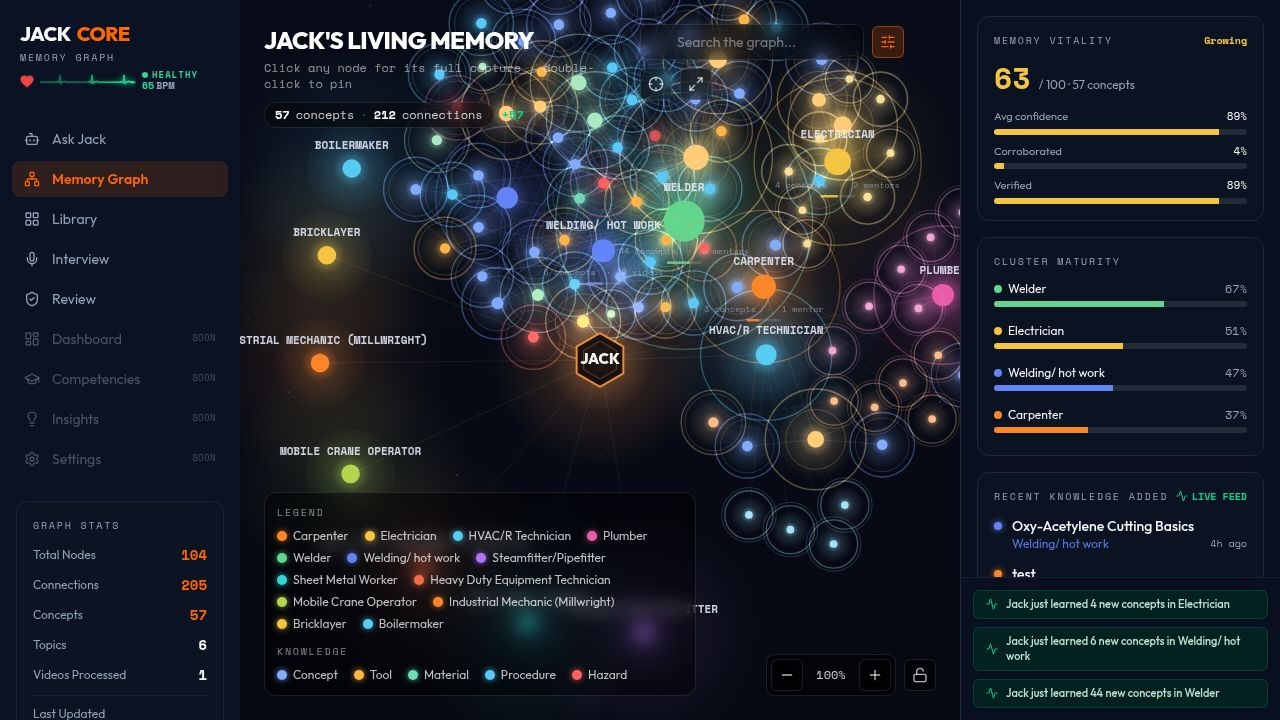
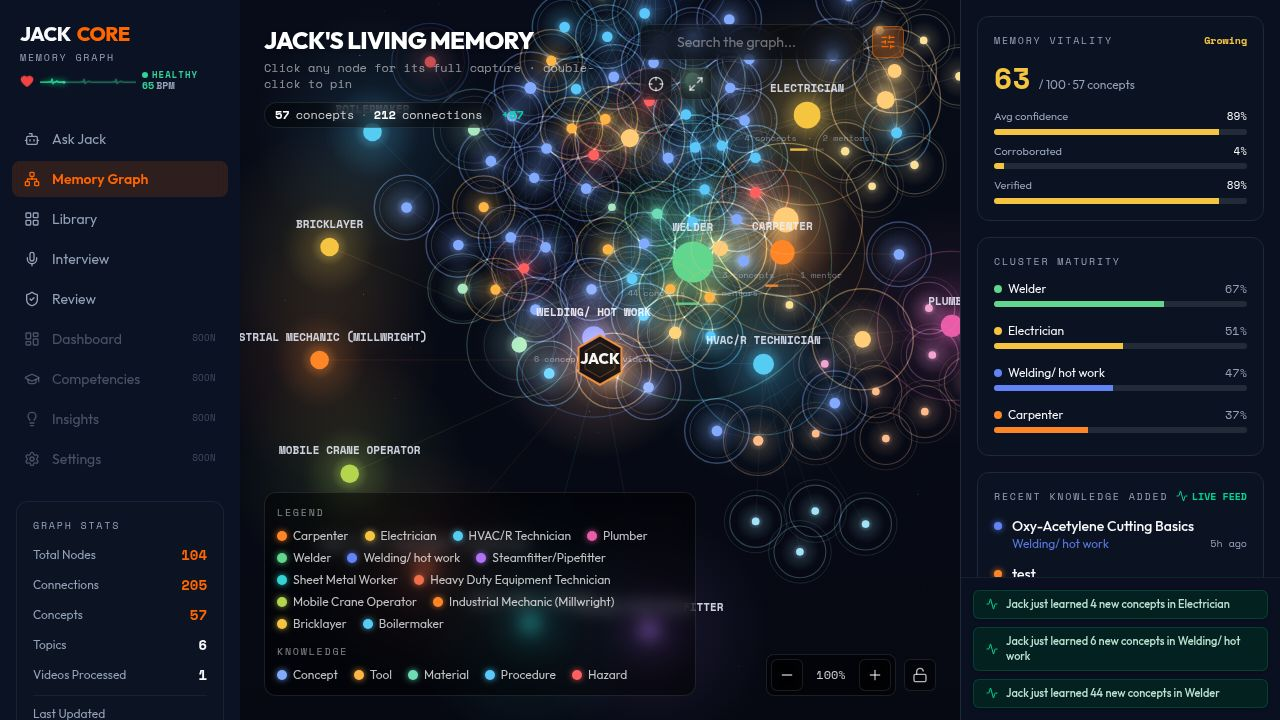
Enhance website metadata for improved brand visibility and AI search awareness
Add a Vite plugin to inject absolute URLs into the HTML, generate robots.txt and sitemap.xml with AI crawler directives and absolute URLs, and update meta tags in index.html.

Replit-Commit-Author: Agent
Replit-Commit-Session-Id: f1f48d39-a181-4eeb-be4a-a35c18715ed0
Replit-Commit-Checkpoint-Type: full_checkpoint
Replit-Commit-Event-Id: b620baa8-7da3-4187-8dac-c9a035a09ef6
Replit-Commit-Screenshot-Url: https://storage.googleapis.com/screenshot-production-us-central1/3f16e536-04be-4ff9-8e1e-0580cd61ab6c/f1f48d39-a181-4eeb-be4a-a35c18715ed0/jTsHMoY
Replit-Helium-Checkpoint-Created: true

diff --git a/artifacts/jack-core/vite.config.ts b/artifacts/jack-core/vite.config.ts
@@ -1,8 +1,108 @@
-import { defineConfig } from "vite";
+import { defineConfig, type Plugin } from "vite";
 import react from "@vitejs/plugin-react";
 import tailwindcss from "@tailwindcss/vite";
 import path from "path";
 import runtimeErrorOverlay from "@replit/vite-plugin-runtime-error-modal";
+
+// Absolute origin of the deployed site, used to make canonical/OG/structured-data
+// URLs and the sitemap/robots entries absolute. Derived from the actual serving
+// domain per environment so it stays correct in dev and after publishing.
+function resolveSiteUrl(): string {
+  const host =
+    process.env.REPLIT_DOMAINS?.split(",")[0]?.trim() ||
+    process.env.REPLIT_DEV_DOMAIN?.trim() ||
+    "";
+  return host
+    ? `https://${host.replace(/^https?:\/\//, "").replace(/\/+$/, "")}`
+    : "";
+}
+
+// Injects the absolute site URL into index.html (via the `__SITE_URL__` token)
+// and generates SEO/AI-crawler assets (robots.txt + sitemap.xml) with absolute
+// URLs, served in dev and emitted at build.
+function seoAssetsPlugin(): Plugin {
+  const siteUrl = resolveSiteUrl();
+
+  const robotsTxt = `# Torch — Jack: AI Trade Intelligence Engine
+User-agent: *
+Allow: /
+
+# Explicitly welcome major AI + search crawlers
+User-agent: GPTBot
+Allow: /
+
+User-agent: OAI-SearchBot
+Allow: /
+
+User-agent: ChatGPT-User
+Allow: /
+
+User-agent: ClaudeBot
+Allow: /
+
+User-agent: Claude-Web
+Allow: /
+
+User-agent: PerplexityBot
+Allow: /
+
+User-agent: Google-Extended
+Allow: /
+
+User-agent: Applebot-Extended
+Allow: /
+
+User-agent: CCBot
+Allow: /
+
+Sitemap: ${siteUrl}/sitemap.xml
+`;
+
+  const sitemapXml = `<?xml version="1.0" encoding="UTF-8"?>
+<urlset xmlns="http://www.sitemaps.org/schemas/sitemap/0.9">
+  <url>
+    <loc>${siteUrl}/</loc>
+    <changefreq>daily</changefreq>
+    <priority>1.0</priority>
+  </url>
+</urlset>
+`;
+
+  return {
+    name: "torch-seo-assets",
+    transformIndexHtml(html) {
+      return html.replaceAll("__SITE_URL__", siteUrl);
+    },
+    configureServer(server) {
+      server.middlewares.use((req, res, next) => {
+        const url = req.url?.split("?")[0];
+        if (url === "/robots.txt") {
+          res.setHeader("Content-Type", "text/plain; charset=utf-8");
+          res.end(robotsTxt);
+          return;
+        }
+        if (url === "/sitemap.xml") {
+          res.setHeader("Content-Type", "application/xml; charset=utf-8");
+          res.end(sitemapXml);
+          return;
+        }
+        next();
+      });
+    },
+    generateBundle() {
+      this.emitFile({
+        type: "asset",
+        fileName: "robots.txt",
+        source: robotsTxt,
+      });
+      this.emitFile({
+        type: "asset",
+        fileName: "sitemap.xml",
+        source: sitemapXml,
+      });
+    },
+  };
+}
 
 const rawPort = process.env.PORT;
 
@@ -32,6 +132,7 @@ export default defineConfig({
     react(),
     tailwindcss(),
     runtimeErrorOverlay(),
+    seoAssetsPlugin(),
     ...(process.env.NODE_ENV !== "production" &&
     process.env.REPL_ID !== undefined
       ? [

diff --git a/artifacts/jack-core/index.html b/artifacts/jack-core/index.html
@@ -3,15 +3,97 @@
   <head>
     <meta charset="UTF-8" />
     <meta name="viewport" content="width=device-width, initial-scale=1.0, maximum-scale=1" />
-    <title>Jack — AI Trade Intelligence Engine</title>
-    <meta name="description" content="Jack — AI Trade Intelligence Engine — built on Replit. Update this description to reflect the app." />
-    <meta name="robots" content="index, follow" />
+
+    <title>Jack — AI Trade Intelligence Engine | Torch</title>
+    <meta
+      name="description"
+      content="Torch's AI Trade Intelligence Engine. Jack answers skilled-trades questions with timestamped, cited answers from training videos and maps them to Red Seal competencies."
+    />
+    <meta
+      name="keywords"
+      content="AI trade intelligence, skilled trades, Red Seal competencies, trade training videos, apprenticeship, trades knowledge base, timestamped citations, jobsite AI, Torch, Jack, welding, electrical, HVAC, carpentry, plumbing"
+    />
+    <meta name="author" content="Torch" />
+    <meta name="publisher" content="Torch" />
+    <meta name="application-name" content="Jack" />
+    <meta name="apple-mobile-web-app-title" content="Jack" />
+    <meta name="theme-color" content="#FF3C00" />
+    <meta name="color-scheme" content="dark" />
+    <meta name="robots" content="index, follow, max-image-preview:large, max-snippet:-1, max-video-preview:-1" />
+    <link rel="canonical" href="__SITE_URL__/" />
+
+    <!-- Open Graph -->
+    <meta property="og:site_name" content="Torch" />
     <meta property="og:title" content="Jack — AI Trade Intelligence Engine" />
-    <meta property="og:description" content="Jack — AI Trade Intelligence Engine — built on Replit. Update this description to reflect the app." />
+    <meta
+      property="og:description"
+      content="Torch's AI Trade Intelligence Engine. Jack answers skilled-trades questions with timestamped, cited answers from training videos and maps them to Red Seal competencies."
+    />
     <meta property="og:type" content="website" />
+    <meta property="og:url" content="__SITE_URL__/" />
+    <meta property="og:image" content="__SITE_URL__/opengraph.jpg" />
+    <meta property="og:image:secure_url" content="__SITE_URL__/opengraph.jpg" />
+    <meta property="og:image:type" content="image/jpeg" />
+    <meta property="og:image:width" content="1280" />
+    <meta property="og:image:height" content="720" />
+    <meta property="og:image:alt" content="Jack — Torch's AI Trade Intelligence Engine" />
+    <meta property="og:locale" content="en_US" />
+
+    <!-- Twitter -->
     <meta name="twitter:card" content="summary_large_image" />
     <meta name="twitter:title" content="Jack — AI Trade Intelligence Engine" />
-    <meta name="twitter:description" content="Jack — AI Trade Intelligence Engine — built on Replit. Update this description to reflect the app." />
+    <meta
+      name="twitter:description"
+      content="Torch's AI Trade Intelligence Engine. Jack answers skilled-trades questions with timestamped, cited answers from training videos and maps them to Red Seal competencies."
+    />
+    <meta name="twitter:image" content="__SITE_URL__/opengraph.jpg" />
+    <meta name="twitter:image:alt" content="Jack — Torch's AI Trade Intelligence Engine" />
+
+    <!-- Structured data for search engines and AI crawlers -->
+    <script type="application/ld+json">
+      {
+        "@context": "https://schema.org",
+        "@graph": [
+          {
+            "@type": "Organization",
+            "@id": "__SITE_URL__/#organization",
+            "name": "Torch",
+            "url": "__SITE_URL__/",
+            "logo": "__SITE_URL__/favicon.svg",
+            "description": "Torch preserves hard-won skilled-trades knowledge and makes it instantly usable in the field."
+          },
+          {
+            "@type": "WebSite",
+            "@id": "__SITE_URL__/#website",
+            "name": "Jack — AI Trade Intelligence Engine",
+            "url": "__SITE_URL__/",
+            "publisher": { "@id": "__SITE_URL__/#organization" },
+            "inLanguage": "en"
+          },
+          {
+            "@type": "SoftwareApplication",
+            "@id": "__SITE_URL__/#app",
+            "name": "Jack",
+            "alternateName": "Jack — AI Trade Intelligence Engine",
+            "applicationCategory": "EducationalApplication",
+            "operatingSystem": "Web",
+            "url": "__SITE_URL__/",
+            "image": "__SITE_URL__/opengraph.jpg",
+            "description": "Jack is Torch's AI Trade Intelligence Engine — a searchable video knowledge library that transcribes training videos, maps them to Red Seal competencies, and answers trade questions with timestamped citations. A Teach Jack mentor interview flow feeds the same persistent Living Memory knowledge graph.",
+            "creator": { "@id": "__SITE_URL__/#organization" },
+            "publisher": { "@id": "__SITE_URL__/#organization" },
+            "inLanguage": "en",
+            "featureList": [
+              "Transcribes training videos and indexes every segment for semantic search",
+              "Answers trade questions with exact video timestamp citations",
+              "Maps content to Red Seal competencies",
+              "Teach Jack mentor interviews feed a persistent Living Memory knowledge graph"
+            ]
+          }
+        ]
+      }
+    </script>
+
     <meta http-equiv="Content-Security-Policy" content="default-src 'self'; script-src 'self' 'unsafe-inline'; style-src 'self' 'unsafe-inline' https://fonts.googleapis.com; font-src 'self' https://fonts.gstatic.com; img-src 'self' data: https:; connect-src 'self' https://*.supabase.co; object-src 'none'; base-uri 'self'" />
     <link rel="icon" type="image/svg+xml" href="/favicon.svg" />
     <link rel="preconnect" href="https://fonts.googleapis.com">

diff --git a/.agents/memory/MEMORY.md b/.agents/memory/MEMORY.md
@@ -15,8 +15,8 @@
 - [Workflow names](workflow-names.md) — restart_workflow needs the exact `artifacts/<dir>: <title>` name; call listWorkflows() first instead of guessing.
 - [Leaf typecheck vs composite libs](leaf-typecheck-composite-libs.md) — leaf `tsc --noEmit` doesn't build lib refs; stale/missing dist yields misleading "no exported member"/TS6305; build refs first.
 - [Canvas rAF negative dt](canvas-raf-negative-dt.md) — first rAF timestamp can precede a performance.now() baseline → negative dt eases node radius below 0 → arc() crash; floor dt at 0.
-- [Canvas per-node glow sprite perf](canvas-glow-sprite-perf.md) — cached glow-sprite blit beats per-node createRadialGradient; lives in the now-LIVE 2D MemoryGraphCanvas (3D SpatialBrainCanvas rolled back, dead-on-disk). Check which canvas is mounted.
-- [Graph selection emphasis vs prune](graph-selection-emphasis-vs-prune.md) — selecting a trade must dim other trades but keep them visible, never prune context; proven 2D MemoryGraphCanvas is live, 3D SpatialBrainCanvas experiment dead-on-disk.
+- [Canvas per-node glow sprite perf](canvas-glow-sprite-perf.md) — cached glow-sprite blit beats per-frame createRadialGradient; visually lossless under 'lighter'. Confirm the mounted canvas first.
+- [Graph selection emphasis vs prune](graph-selection-emphasis-vs-prune.md) — selecting a trade must dim other trades but keep them visible; selection never prunes/hides context (repeated launch-blocker regression).
 - [PostgREST schema-cache transience](postgrest-schema-cache-transience.md) — PGRST205/"schema cache" after DDL is transient; retry through it, don't flip a landed write to failed; real missing node/edge is a returned verdict, never retried.
 - [Blue crosshair canvas artifact](canvas-blue-crosshair.md) — three distinct "blue line" cases (canvas gradient spike / sidebar DOM border / Replit preview focus outline); diagnosis tree in the topic file.
 - [Deploy healthcheck base path](deploy-healthcheck-base-path.md) — platform/uptime check pings bare /api (not /api/healthz); base path must return a shallow (no-DB) 200 or it reads as an outage; redeploy to take effect.